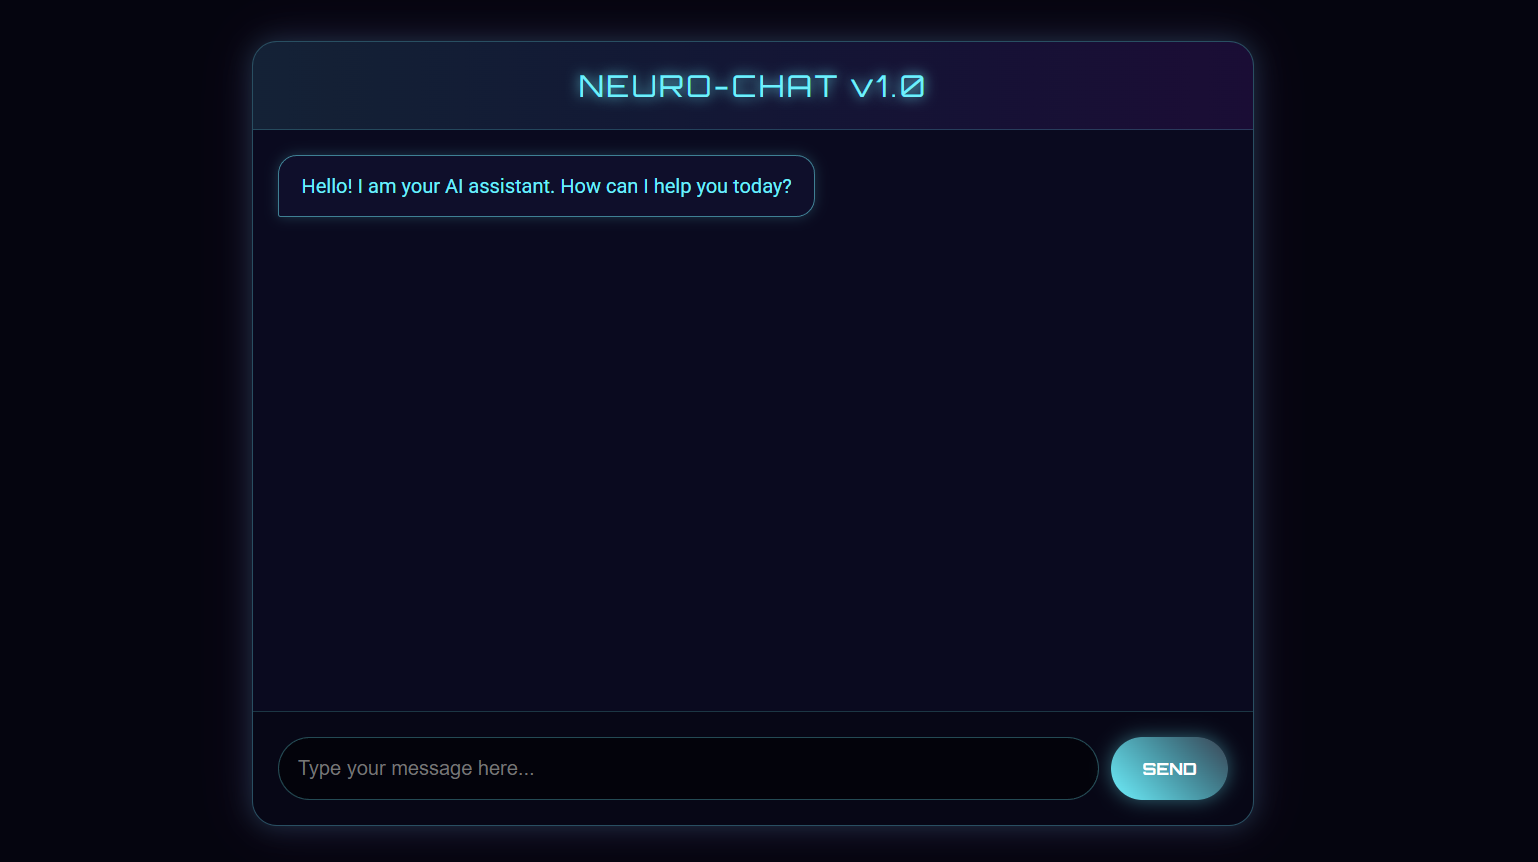
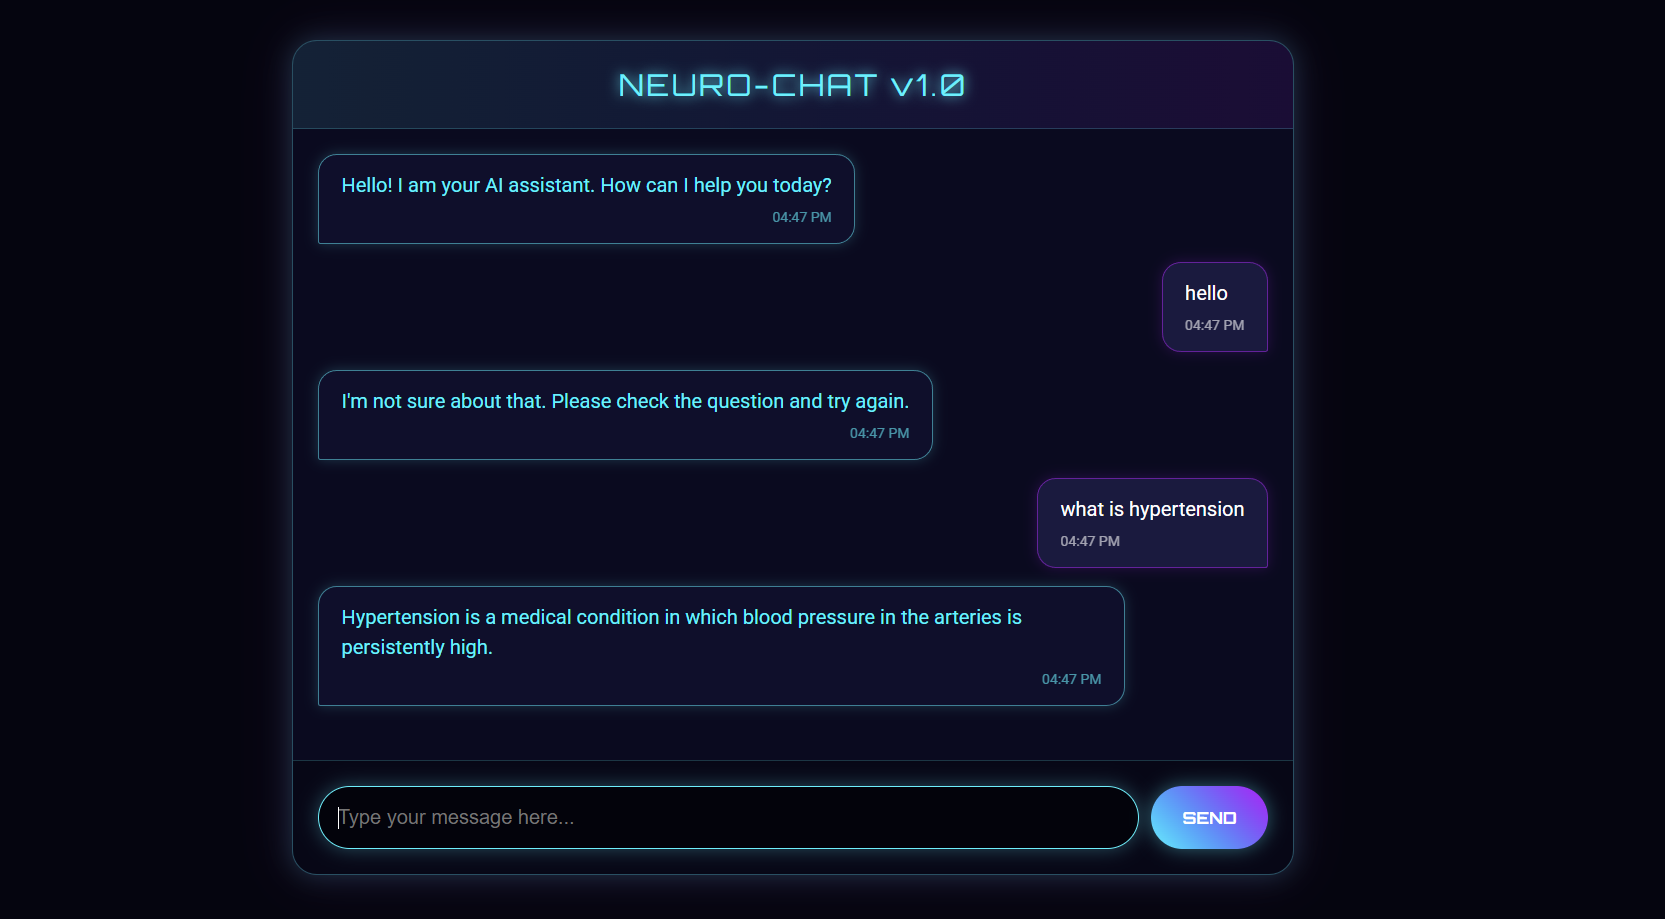
Add date_and_time field and show IST timestamp in chat

diff --git a/chat/templates/chat/index.html b/chat/templates/chat/index.html
@@ -182,9 +182,6 @@
             NEURO-CHAT v1.0
         </div>
         <div class="chat-box" id="chat-box">
-            <div class="message bot-message">
-                Hello! I am your AI assistant. How can I help you today?
-            </div>
         </div>
         <div class="typing" id="typing-indicator">AI is typing...</div>
         <div class="input-area">
@@ -209,16 +206,31 @@
             div.classList.add('message');
             div.classList.add(sender === 'user' ? 'user-message' : 'bot-message');
 
+            const contentSpan = document.createElement('span');
             // Convert newlines to <br> for bot messages
             if (sender === 'bot') {
-                div.innerHTML = text.replace(/\n/g, '<br>');
+                contentSpan.innerHTML = text.replace(/\n/g, '<br>');
             } else {
-                div.textContent = text;
+                contentSpan.textContent = text;
             }
+            div.appendChild(contentSpan);
 
+            const timeSpan = document.createElement('div');
+            timeSpan.style.fontSize = '0.7rem';
+            timeSpan.style.marginTop = '5px';
+            timeSpan.style.textAlign = sender === 'user' ? 'left' : 'right';
+            timeSpan.style.opacity = '0.6';
+            timeSpan.textContent = new Date().toLocaleTimeString('en-US', { timeZone: 'Asia/Kolkata', hour: '2-digit', minute: '2-digit', hour12: true });
+
+            div.appendChild(timeSpan);
             chatBox.appendChild(div);
             chatBox.scrollTop = chatBox.scrollHeight;
         }
+
+        // Initial Greeting
+        window.addEventListener('load', () => {
+            appendMessage("Hello! I am your AI assistant. How can I help you today?", 'bot');
+        });
 
         async function sendMessage() {
             const text = userInput.value.trim();

diff --git a/chat/migrations/0002_questionanswer_date_and_time.py b/chat/migrations/0002_questionanswer_date_and_time.py
@@ -1,0 +1,19 @@
+# Generated by Django 5.2.4 on 2026-02-22 11:10
+
+import django.utils.timezone
+from django.db import migrations, models
+
+
+class Migration(migrations.Migration):
+
+    dependencies = [
+        ("chat", "0001_initial"),
+    ]
+
+    operations = [
+        migrations.AddField(
+            model_name="questionanswer",
+            name="date_and_time",
+            field=models.DateTimeField(default=django.utils.timezone.now),
+        ),
+    ]

diff --git a/chat/models.py b/chat/models.py
@@ -1,8 +1,10 @@
 from django.db import models
+from django.utils import timezone
 
 class QuestionAnswer(models.Model):
     question = models.TextField()
     answer = models.TextField()
+    date_and_time = models.DateTimeField(default=timezone.now)
 
     def __str__(self):
         return self.question

diff --git a/chatbot_project/settings.py b/chatbot_project/settings.py
@@ -154,7 +154,7 @@ AUTH_PASSWORD_VALIDATORS = [
 
 LANGUAGE_CODE = "en-us"
 
-TIME_ZONE = "UTC"
+TIME_ZONE = "Asia/Kolkata"
 
 USE_I18N = True
 
